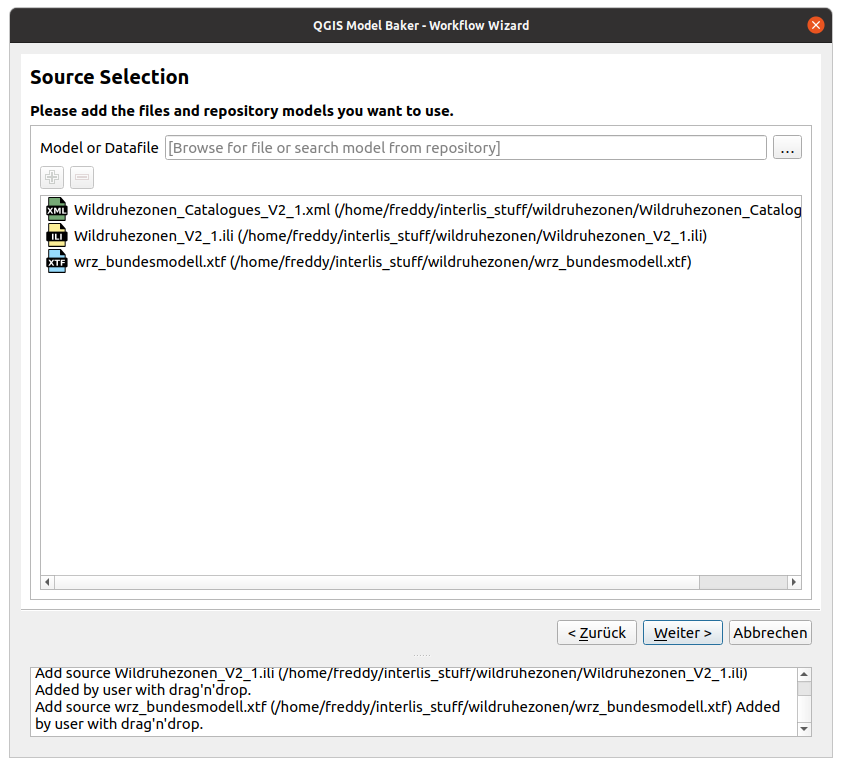
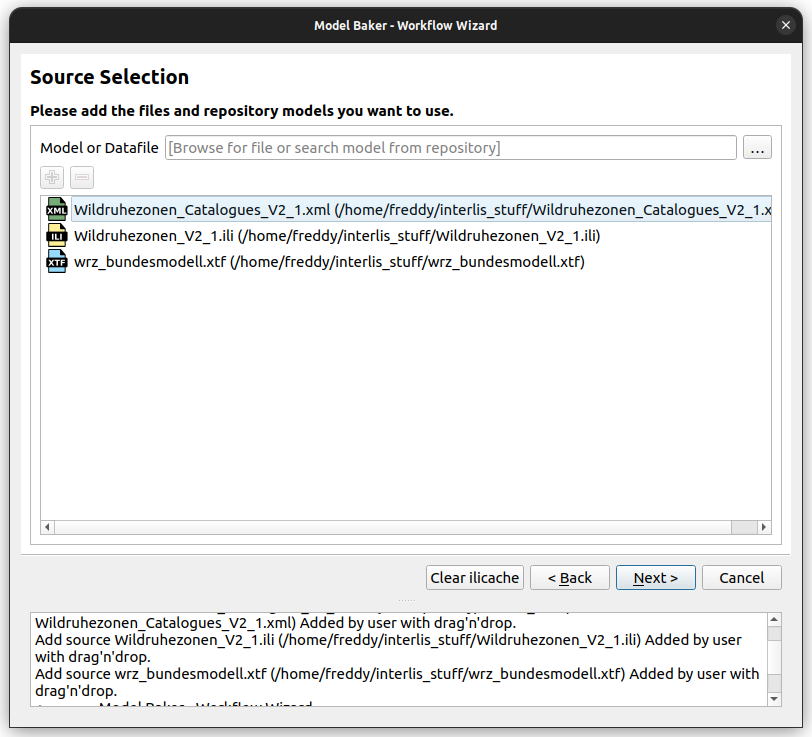
ilicache button

Changed region(s): [[0.0, 0.0, 1.0, 1.0]]

diff --git a/docs/user_guide/import_workflow.md b/docs/user_guide/import_workflow.md
@@ -19,6 +19,9 @@ Sources can be INTERLIS models stored in `ili` files you select from your local 
 
 As well you can search for INTERLIS models in the [repositories](../../background_info/repositories) or [custom model directories](../plugin_configuration/#custom-model-directories). Since model names should be given strictly as they were spelled in INTERLIS files, once you start typing, autocompletion will help you discover available models with their correct spelling. Add them wiht the ![plus button](../assets/plus_button.png).
 
+!!! Note
+    The models from the repositories are cached locally. If you want to clear this cache, use the button *Clear ilicache*.
+
 This leads you to a process to create the physical database in *PostgreSQL*, *MSSQL* or *GeoPackage*.
 
 ### Transfer and Catalogue Files (Data Files)
